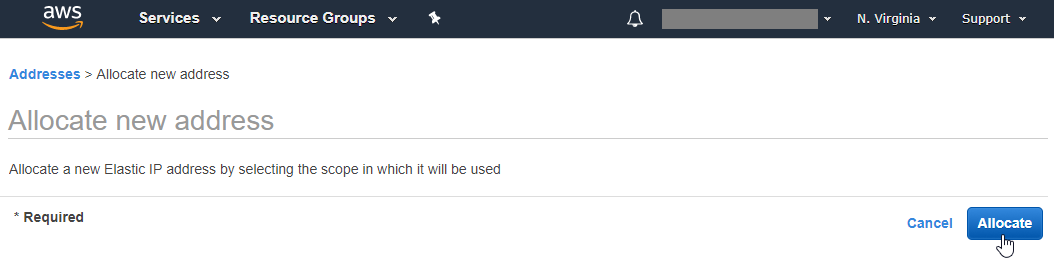
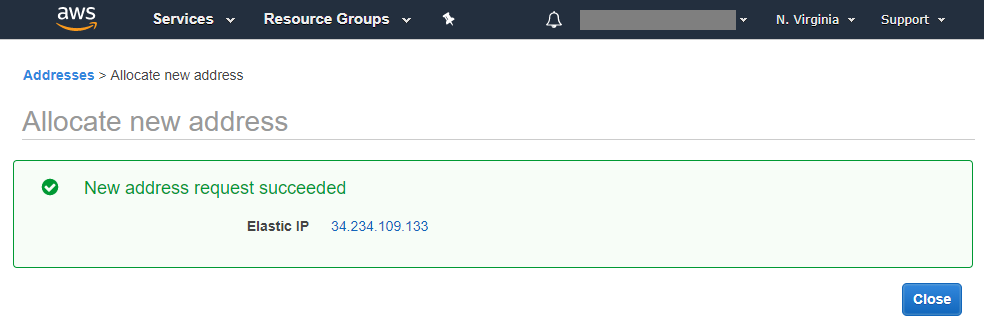
NAT Gateway

Changed region(s): [[0.0, 0.3359, 1.0, 0.9771], [0.0, 0.0, 1.0, 0.1527], [0.0, 0.2137, 0.2439, 0.3053]]

diff --git a/AWS Cloud/VPC/AWS_VPC_1.md b/AWS Cloud/VPC/AWS_VPC_1.md
@@ -33,8 +33,7 @@ Amazon Virtual Private Cloud (VPC)
 ## Introducción ##
 ---
 ### ¿Qué es Amazon Virtual Private Cloud (VPC)?      
----
-**Amazon Virtual Private Cloud (VPC)** nos permite aprovisionar recursos de Amazon Web Services (AWS), por ej. instancias de EC2, dentro de una red virtual que nosotros definimos dentro de AWS. Esta red virtual se parece mucho a una red tradicional que operamos en nuestro propio datacenter, pero con los beneficios de utilizar la infraestructura escalable de AWS.
+Amazon Virtual Private Cloud (VPC) nos permite aprovisionar recursos de Amazon Web Services (AWS), por ej. instancias de EC2, dentro de una red virtual que nosotros definimos dentro de AWS. Esta red virtual se parece mucho a una red tradicional que operamos en nuestro propio datacenter, pero con los beneficios de utilizar la infraestructura escalable de AWS.
 
 Podemos controlar todos los aspectos de la red virtual, incluyendo la selección de nuestro propio rango de direcciones IP, la creación de subredes, la configuración de tablas de ruteo, gateways, seguridad, e incluso si quisiéramos, el acceso a la misma desde nuestro datacenter.
 
@@ -83,7 +82,6 @@ Una VPC puede expandirse en múltiples *Availability Zones* en una región.
 Se debe tener en cuenta que si **eliminamos la Default VPC, no puede ser recuperada en forma sencilla**. Deberemos contactar a AWS Support para que ellos la vuelvan a restaurar.
 
 
-
 ### VPC Peering
 Podemos conectar nuestras propias VPC entre ellas, o con una VPC en otra cuenta de AWS, siempre y cuando se encuentren en la misma AWS Region, y no tengan rangos de IP solapados.
 
@@ -105,6 +103,7 @@ Para hacer esto, necesitamos un *Virtual Private Gateway*, el cual es el concent
 
 ---
 ## Custom VPC
+---
 Entonces, por qué no utilizar siempre la Default VPC?
 La Default VPC es muy útil cuando estamos realizando pruebas en AWS.
 
@@ -171,8 +170,8 @@ Ref:
 * [EC2 Dedicated Instances](http://docs.aws.amazon.com/AWSEC2/latest/UserGuide/dedicated-instance.html)
 
 ---
-## Direcciones IP Privada, Pública y Elástica
-
+## Direcciones IP Privadas, Públicas y Elásticas
+---
 ### Private IP Adress
 Las direcciones IP privadas (*Private IPs*) son direcciones que no se pueden acceder desde Internet.
 
@@ -198,14 +197,20 @@ Esta dirección IP tiene un costo adicional, solo si la misma no se encuentra as
 
 #### Creando una Elastic IP Address
 Dentro de la sección de VPC, sobre el menú de la izquierda, tenemos la opción de *Elastic IPs*.
-
 ![alt text](./images/elastic_ip_01.png)
 
-
+Seleccionamos *Allocate new address* y luego nuevamente *Allocate*.
+Creamos una nueva Elastic IP, la cual por defecto no queda asociada a ningún servicio.
 ![alt text](./images/elastic_ip_02.png)
+
+
+Debemos tener en cuenta que, **mientras la Elastic IP no se encuentre asociada a un servicio, Amazon nos cobrará el costo de la misma.** Por lo cual, lo ideal es crear la Elastic IP en el momento que la necesitemos (por ej., al crear el NAT Gateway, cosa que veremos más adelante).
+
+![alt text](./images/elastic_ip_03.png)
 
 ---
 ## VPC Subnets
+---
 Una subred es un rango de direcciones IP dentro de la VPC.
 
 Se pueden iniciar recursos de AWS (ej. instancias de EC2) dentro de una determinada subred que seleccionemos. No podemos iniciar ningún recurso en nuestra VPC si no tenemos por lo menos una subred definida.
@@ -221,7 +226,6 @@ Las *availability zones* son ubicaciones diferentes diseñadas para quedar aisla
 
 
 ### Private & Public Subnets
-
 Las **subredes públicas** se utilizan para recursos que necesitan tener acceso a Internet, por ej.: servidores web. Una subred pública se hace pública cuando su *route table* envía al *Internet Gateway* todo el tráfico cuyo destino es Internet (ya veremos esto).
 
 Las **subredes privadas** se utilizan para recursos que no requieren acceso a Internet, o que queremos proteger (aislar) de Internet, por ej.: servidores de bases de datos.
@@ -261,7 +265,7 @@ Ref:
 
 ---
 ## Networking
-
+---
 Veremos más en detalle sobre *Internet Gatways*, *Route Tables* y *NAT Devices*, y como crear estos dispositivos en nuestra VPC.
 
 ### Internet Gateway
@@ -347,24 +351,82 @@ Ahora podemos ver que nuestra public subnet (PUB) está asociada con esta route 
 ![alt text](./images/route_table_08.png)
 
 
+### NAT Device
+Pero que pasa si queremos darle acceso a Internet a nuestra subred Privada?
+Para esto debemos utilizar un *NAT Device*.
+
+Mediante un *NAT Device* podemos permitir que las instancias que corren en una subred privada se conecten hacia Internet, pero no permite que la conexión se inicie desde Internet hacia las instancias.
+![alt text](./images/nat_device_01.png)
+
+Como ya hemos visto, podemos utilizar subredes públicas y privadas para proteger nuestras instancias de forma de que no estén conectadas directamente a Internet. Por ej., nuestros servidores web se ubicarían en la subred pública, mientras que nuestros servidores de bases de datos estarían en la subred privada que no tiene conexión a Internet.
+Pero de todas formas, nuestros servidores de base de datos podrían necesitar acceso a Internet, por ej. para bajar actualizaciones, o quizá para conectarse a otros recursos de AWS a través de Internet. Para estos casos, podemos utilizar un Network Access Translation (NAT) Device.
+
+Este dispositivo reenvía el tráfico de las instancias que se encuentran en nuestra subred privada hacia internet (o hacia otros servicios de AWS), y luego cuando vuelve la respuesta, la toma y la envía de vuelta hacia la instancia correspondiente. Cuando el tráfico va hacia internet, la dirección IP origen de la instancia es reemplazada con la dirección IP del NAT Device, y cuando el tráfico vuelve desde internet el NAT device traduce nuevamente la dirección IP a la dirección IP privada de la instancia.
+
+En nuestro diagrama, agregamos ahora el NAT device, el cual debe ubicarse en la subred pública para poder tener acceso a internet.
+![alt text](./images/nat_device_02.png)
+
+AWS provee dos tipos de NAT Devices:
+* NAT Gateway
+* NAT Instance
+
+AWS recomiendo el uso de NAT Gateway dado que es un servicio autogestionado, que provee una mayor disponibilidad y ancho de banda comparado con un NAT Instance. Cada NAT Gateway es creado en una Availability Zone específica y es implementado con redundancia dentro de esa zona. Al ser un servicio autogestionado, una vez que el servicio es iniciado, nos podemos olvidar de él, dado que no requiere administración.
+
+Un NAT Instance es iniciado desde una NAT AMI (Amazon Machine Image) y se ejecuta como una instancia en la VPC, por lo cual es "un equipo más" que debemos gestionar.
+
+Dado que el NAT Gateway plantea muchas ventajas, además de ser la opción recomendada por AWS, veremos únicamente este dispositivo.
 
 
-### VPC NAT Gateway
+#### Creando un NAT Gateway
+El NAT Gateway debe ubicarse en una subred pública, dado que necesita conectividad a Internet. También requiere contar con una *Elastic IP address* la cual asignaremos al momento de crearlo.
+
+Una vez creado, debemos actualizar la *route table* asociada con nuestra subred privada de forma de apuntar el tráfico a Internet de esta subred a través del NAT Gateway. De esta forma, las instancias en nuestra subred privada podrán comunicarse hacia internet de una manera segura.
+
+![alt text](./images/nat_device_03.png)
+
+Para crear un NAT Gateway, vamos al menú correspondiente sobre la izquierda, en el VPC Dashboard, y seleccionamos *Create NAT Gateway:*
+![alt text](./images/nat_device_04.png)
+
+Luego debemos seleccionar la subred en la cuál vamos a colocar nuestro NAT Gateway. Debe ir necesariamente en la subred pública, para poder tener acceso a Internet. En el cuadro aparecen listadas las diferentes subredes que tenemos, y podemos hacer una busqueda escribiendo el ID o el nombre de la misma.
+![alt text](./images/nat_device_05.png)
+
+Ahora debemos seleccionar la *Elastic IP Address* que vamos a asociar al NAT Gateway. Previamente habíamos creado la Elastic IP, de no ser así, podemos crearla desde acá mismo:
+![alt text](./images/nat_device_06.png)
+
+Una vez que tenemos ambos parámetros configurados, creamos el NAT Gateway:
+![alt text](./images/nat_device_07.png)
+
+![alt text](./images/nat_device_08.png)
+
+Para poder utilizar el NAT Gateway, debemos editar la *route table* para incluir una ruta que tenga como destino este NAT Gateway. Podemos hacer esto desde aquí mismo, mediante el botón *Edit route tables*.
+Esto nos lleva directamente a la sección de Route Tables de nuestra VPC.
+
+Aca podemos filtrar entre todas las route tables colocando el nombre (o parte) de la VPC en el cuadro de search, en este caso "iot".
+
+![alt text](./images/nat_device_09.png)
+
+En la imagen anterior, podemos ver que tenemos dos route tables, la *iot-cloud-rtb* es la tabla personalizada que creamos antes (customized route table), mientras que la que no tiene nombre es la tabla por defecto que AWS crea para la VPC (main rout table). Si queremos, podemos asignarle un nombre para que nos quede mas claro, en este caso la renombré como *iot-cloud-rtb-main*. Esta última es la que debemos configurar para que apunte al NAT Gateway.
+
+Podemos ver que esta route table solo tiene asociada nuestra subred privada:
+![alt text](./images/nat_device_10.png)
 
 
-### Elastic IPs
+Y en sus rutas solo tiene configurado el tráfico local:
+![alt text](./images/nat_device_11.png)
 
 
+Lo que debemos hacer, es agregarle una ruta para que apunte al NAT Gateway para el tráfico a Internet.
+Le damos *Edit* y luego *Add another route*, y le ponemos que todo el tráfico hacia 0.0.0.0/0 sea dirigido a nuestro NAT Gateway.
 
+Ojo que debemos seleccionar como destino nuestro NAT Gateway que definimos recién, y no el Internet Gateway que usamos para nuestra subred pública (en el recuadro aparecen ambos lo cual podría dar lugar a confusión). Luego grabamos la ruta, la cual debería quedar así:
 
+![alt text](./images/nat_device_12.png)
 
+De esta forma, cualquier instancia que ahora creemos en nuestra subred privada va a poder acceder a Internet a través de este NAT Gateway.
 
-
-
-
-
-
-
+---
+## Seguridad
+---
 
 
 ### Network ACLs
